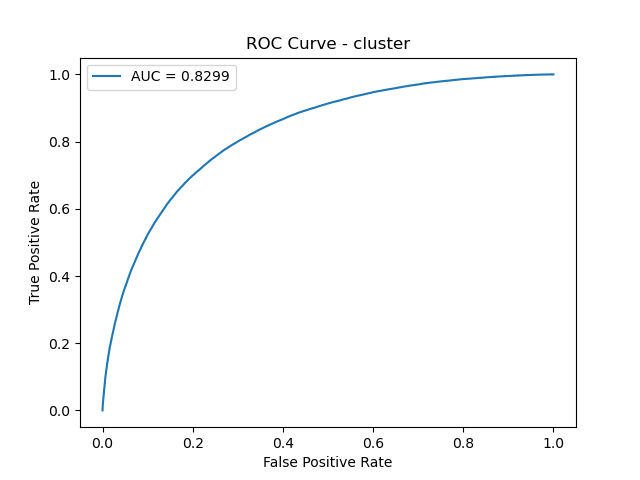
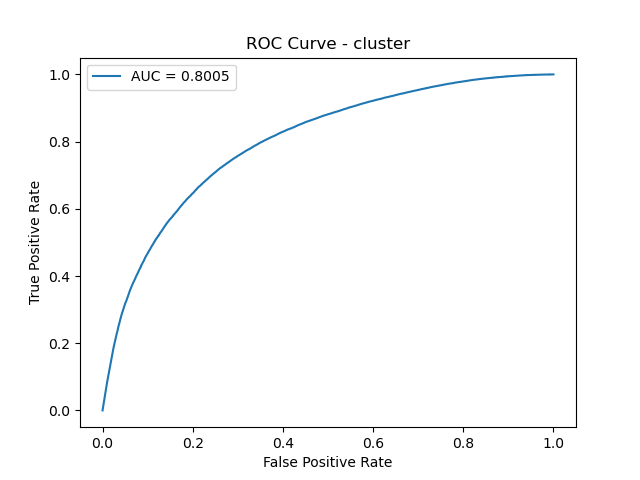
use 2 GPUs with new train-test split

Changed region(s): [[0.1562, 0.1562, 0.7812, 0.8438], [0.3125, 0.1562, 0.3438, 0.1875]]

diff --git a/train_no_aug.py b/train_no_aug.py
@@ -20,20 +20,30 @@ def parse_arguments():
     parser.add_argument('--output_dir', type=str, default='./models', help='Directory to save models')
     parser.add_argument('--classification_task', type=str, default='tumor', choices=['tumor', 'TIL'], help='Classification task')
     parser.add_argument('--testset', type=str, required=True, help='Test dataset name')
-    parser.add_argument('--crop_size', type=int, default=224, help='Crop size for images')
+    parser.add_argument('--crop_size', type=int, default=96, help='Crop size for images')
     parser.add_argument('--epochs', type=int, default=30, help='Number of epochs')
     parser.add_argument('--lr', type=float, default=1e-4, help='Learning rate')
     parser.add_argument('--seed', type=int, default=42, help='Random seed')
     parser.add_argument('--train_split', type=float, default=0.9, help='Train split ratio')
     parser.add_argument('--multitask', action='store_true', help='Enable multitask learning')
     parser.add_argument('--lambda_ortho', type=float, default=0.01, help='Weight for orthogonality loss')
+    parser.add_argument('--num_gpus', type=int, default=2, help='Number of GPUs to use')
     return parser.parse_args()
 
-def setup_device():
-    return torch.device("cuda" if torch.cuda.is_available() else "cpu")
+def setup_device(num_gpus):
+    if torch.cuda.is_available() and num_gpus > 0:
+        device = torch.device("cuda")
+        available_gpus = min(torch.cuda.device_count(), num_gpus)
+        print(f"Using {available_gpus} GPUs")
+        if available_gpus < num_gpus:
+            print(f"Warning: Requested {num_gpus} GPUs but only {available_gpus} are available")
+    else:
+        device = torch.device("cpu")
+        print("Using CPU")
+    return device
 
-def get_max_batch_size(model, device, input_shape):
-    batch_size = 32
+def get_max_batch_size(model, device, input_shape, num_gpus):
+    batch_size = 32 * max(1, num_gpus)  # Scale initial batch size with number of GPUs
     while True:
         try:
             x = torch.randn(batch_size, *input_shape).to(device)
@@ -50,7 +60,15 @@ def train_epoch(model, optimizer, pos_weights, dataloader, num_tasks, device, la
     for images, labels, clusters in dataloader:
         images, labels, clusters = images.to(device), labels.to(device), clusters.to(device)
         optimizer.zero_grad()
-        outputs, _ = model(images)
+        
+        # Handle output from DataParallel model (which wraps outputs in a list)
+        outputs_list, _ = model(images)
+        if isinstance(model, nn.DataParallel):
+            # Assuming model returns a tuple (outputs, _) and we want the first element
+            outputs = outputs_list
+        else:
+            outputs = outputs_list
+            
         task_loss = 0.0
         unique_clusters = torch.unique(clusters)
         if max(unique_clusters) >= num_tasks:
@@ -62,13 +80,19 @@ def train_epoch(model, optimizer, pos_weights, dataloader, num_tasks, device, la
             pos_weight = pos_weights[cluster]
             criterion = nn.BCEWithLogitsLoss(pos_weight=pos_weight)
             task_loss += criterion(cluster_outputs.view(-1), cluster_labels.float())
+        
+        # For orthogonality loss, we need to access the actual model weights
+        # If using DataParallel, access the module attribute
+        actual_model = model.module if isinstance(model, nn.DataParallel) else model
+        
         ortho_loss = 0.0
         for i in range(num_tasks):
             for j in range(i + 1, num_tasks):
-                w_i = model.heads[i][2].weight
-                w_j = model.heads[j][2].weight
+                w_i = actual_model.heads[i][2].weight
+                w_j = actual_model.heads[j][2].weight
                 cos_sim = nn.functional.cosine_similarity(w_i.flatten(), w_j.flatten(), dim=0)
                 ortho_loss += torch.abs(cos_sim)
+                
         total_loss = task_loss + lambda_ortho * ortho_loss
         total_loss.backward()
         optimizer.step()
@@ -82,7 +106,14 @@ def val_epoch(model, dataloader, device):
     with torch.no_grad():
         for images, labels, clusters in dataloader:
             images, labels, clusters = images.to(device), labels.to(device), clusters.to(device)
-            outputs, _ = model(images)
+            
+            # Handle output from DataParallel model
+            outputs_list, _ = model(images)
+            if isinstance(model, nn.DataParallel):
+                outputs = outputs_list
+            else:
+                outputs = outputs_list
+                
             selected_outputs = torch.stack([outputs[cluster][i] for i, cluster in enumerate(clusters)])
             loss = nn.BCEWithLogitsLoss()(selected_outputs.squeeze(), labels.float())
             val_loss += loss.item()
@@ -94,7 +125,7 @@ def val_epoch(model, dataloader, device):
 
 def main():
     args = parse_arguments()
-    device = setup_device()
+    device = setup_device(args.num_gpus)
     torch.manual_seed(args.seed)
     np.random.seed(args.seed)
     if torch.cuda.is_available():
@@ -107,6 +138,12 @@ def main():
 
     # Initialize Wandb
     wandb.init(project="pathology_multitask", name=exp_name)
+
+    # Log GPU information
+    if torch.cuda.is_available():
+        gpu_count = min(torch.cuda.device_count(), args.num_gpus)
+        gpu_names = [torch.cuda.get_device_name(i) for i in range(gpu_count)]
+        wandb.log({"gpu_count": gpu_count, "gpu_names": gpu_names})
 
     # Load and merge datasets
     df_dataset = pd.read_csv(args.dataset_path)
@@ -157,10 +194,19 @@ def main():
     train_dataset = MultiTaskDataset(train_df, args.classification_task, crop_size=args.crop_size)
     val_dataset = MultiTaskDataset(val_df, args.classification_task, crop_size=args.crop_size)
 
-    # Initialize model and determine batch size
+    # Initialize model
     model = UNIMultitask(num_tasks=num_tasks)
+    
+    # Wrap model with DataParallel if using multiple GPUs
+    if torch.cuda.is_available() and args.num_gpus > 1:
+        if torch.cuda.device_count() > 1:
+            print(f"Using {min(torch.cuda.device_count(), args.num_gpus)} GPUs with DataParallel")
+            model = nn.DataParallel(model, device_ids=list(range(min(torch.cuda.device_count(), args.num_gpus))))
+    
     model.to(device)
-    batch_size = get_max_batch_size(model, device, (3, args.crop_size, args.crop_size))
+    
+    # Determine batch size
+    batch_size = get_max_batch_size(model, device, (3, args.crop_size, args.crop_size), args.num_gpus)
     print(f"Using batch size: {batch_size}")
 
     # DataLoaders with dynamic num_workers
@@ -183,10 +229,13 @@ def main():
         if val_acc > best_val_acc:
             best_val_acc = val_acc
             model_filename = f"UNI_{args.classification_task}_{args.testset}_valacc{best_val_acc:.4f}_{timestamp}.pth"
-            torch.save(model.state_dict(), os.path.join(args.output_dir, model_filename))
+            # Save the model state dict (access .module if it's a DataParallel model to save the actual model)
+            torch.save(model.module.state_dict() if isinstance(model, nn.DataParallel) else model.state_dict(), 
+                       os.path.join(args.output_dir, model_filename))
             print(f"Saved best model: {model_filename}")
 
     wandb.finish()
 
 if __name__ == "__main__":
     main()
+    

diff --git a/datasets.py b/datasets.py
@@ -18,7 +18,7 @@ def get_path(dataset, img_name, datatype):
     return f"{path_dict[(dataset, datatype)]}/{img_name}.tif"
 
 class MultiTaskDataset(Dataset):
-    def __init__(self, df, task, datatype='original', crop_size=224):
+    def __init__(self, df, task, datatype='original', crop_size=224, is_training=True):
         self.datasets = df['dataset']
         self.img_paths = df['img_path']
         self.centerXs = df['centerX']
@@ -27,15 +27,25 @@ class MultiTaskDataset(Dataset):
         self.clusters = df['labelCluster']
         self.crop_size = crop_size
         self.datatype = datatype
+        self.is_training = is_training
 
-        self.transform = transforms.Compose([
-            transforms.RandomRotation(180),  # Added random rotation
-            transforms.RandomHorizontalFlip(0.5),
-            transforms.RandomVerticalFlip(0.5),
-            transforms.Pad(padding=int((224 - self.crop_size)/2)),
-            transforms.ToTensor(),
-            transforms.Normalize(mean=[0.485, 0.456, 0.406], std=[0.229, 0.224, 0.225])
-        ])
+        # Define augmentation transforms for training only
+        if self.is_training:
+            self.transform = transforms.Compose([
+                transforms.RandomRotation(180),
+                transforms.RandomHorizontalFlip(0.5),
+                transforms.RandomVerticalFlip(0.5),
+                transforms.Pad(padding=int((224 - self.crop_size)/2)),
+                transforms.ToTensor(),
+                transforms.Normalize(mean=[0.485, 0.456, 0.406], std=[0.229, 0.224, 0.225])
+            ])
+        else:
+            # Only normalization for testing
+            self.transform = transforms.Compose([
+                transforms.Pad(padding=int((224 - self.crop_size)/2)),
+                transforms.ToTensor(),
+                transforms.Normalize(mean=[0.485, 0.456, 0.406], std=[0.229, 0.224, 0.225])
+            ])
 
     def __len__(self):
         return len(self.labels)
@@ -59,7 +69,7 @@ class MultiTaskDataset(Dataset):
         return image, label, cluster
 
 class MultiTaskDatasetRandStainNA(Dataset):
-    def __init__(self, df, task, testset, cluster, datatype='original', crop_size=224):
+    def __init__(self, df, task, testset, cluster, datatype='original', crop_size=224, is_training=True):
         self.datasets = df['dataset']
         self.img_names = df['img_name']
         self.centerXs = df['centerX']
@@ -67,16 +77,31 @@ class MultiTaskDatasetRandStainNA(Dataset):
         self.labels = df['labelTumor'] if task == "tumor" else df['labelTIL']
         self.crop_size = crop_size
         self.datatype = datatype
+        self.is_training = is_training
+        
         cluster_text = f"_{cluster}" if cluster is not None else ""
-        self.transform = transforms.Compose([
-            RandStainNA(yaml_file=f'yaml_config/{task}_{testset}{cluster_text}.yaml', std_hyper=0, probability=1.0, distribution='normal'),
-            transforms.RandomRotation(180),  # Added random rotation
-            transforms.RandomHorizontalFlip(0.5),
-            transforms.RandomVerticalFlip(0.5),
+        
+        # Choose transforms based on whether this is training or testing
+        base_transforms = [
+            RandStainNA(yaml_file=f'yaml_config/{task}_{testset}{cluster_text}.yaml', std_hyper=0, probability=1.0, distribution='normal')
+        ]
+        
+        if self.is_training:
+            # Add augmentations for training
+            base_transforms.extend([
+                transforms.RandomRotation(180),
+                transforms.RandomHorizontalFlip(0.5),
+                transforms.RandomVerticalFlip(0.5),
+            ])
+        
+        # Common transforms for both training and testing
+        base_transforms.extend([
             transforms.Pad(padding=int((224 - self.crop_size)/2)),
             transforms.ToTensor(),
             transforms.Normalize(mean=[0.485, 0.456, 0.406], std=[0.229, 0.224, 0.225])
         ])
+        
+        self.transform = transforms.Compose(base_transforms)
 
     def __len__(self):
         return len(self.labels)
@@ -101,7 +126,7 @@ class MultiTaskDatasetRandStainNA(Dataset):
         return image, label, img_name
 
 class RandStainNADataset(Dataset):
-    def __init__(self, df, task, testset, saved_path, crop_size=224):
+    def __init__(self, df, task, testset, saved_path, crop_size=224, is_training=True):
         self.datasets = df['dataset']
         self.img_names = df['img_name']
         self.centerXs = df['centerX']
@@ -111,14 +136,27 @@ class RandStainNADataset(Dataset):
         self.task = task
         self.testset = testset
         self.saved_path = saved_path
-        self.transform = transforms.Compose([
-            transforms.RandomRotation(180),  # Added random rotation
-            transforms.RandomHorizontalFlip(0.5),
-            transforms.RandomVerticalFlip(0.5),
+        self.is_training = is_training
+        
+        # Choose transforms based on whether this is training or testing
+        transforms_list = []
+        
+        if self.is_training:
+            # Add augmentations for training
+            transforms_list.extend([
+                transforms.RandomRotation(180),
+                transforms.RandomHorizontalFlip(0.5),
+                transforms.RandomVerticalFlip(0.5),
+            ])
+        
+        # Common transforms for both training and testing
+        transforms_list.extend([
             transforms.Pad(padding=int((224 - self.crop_size)/2)),
             transforms.ToTensor(),
             transforms.Normalize(mean=[0.485, 0.456, 0.406], std=[0.229, 0.224, 0.225])
         ])
+        
+        self.transform = transforms.Compose(transforms_list)
 
     def __len__(self):
         return len(self.labels)

diff --git a/test_no_aug.py b/test_no_aug.py
@@ -21,15 +21,22 @@ def parse_arguments():
     parser.add_argument('--plots_dir', type=str, default='./plots', help='Directory to save plots')
     parser.add_argument('--classification_task', type=str, default='tumor', choices=['tumor', 'TIL'], help='Classification task')
     parser.add_argument('--testset', type=str, required=True, help='Test dataset name')
-    parser.add_argument('--crop_size', type=int, default=224, help='Crop size for images')
+    parser.add_argument('--crop_size', type=int, default=96, help='Crop size for images')
     parser.add_argument('--seed', type=int, default=42, help='Random seed')
     parser.add_argument('--multitask', action='store_true', help='Enable multitask learning')
     parser.add_argument('--inference_methods', type=str, nargs='+', default=['cluster'], 
                         help='List of inference methods: cluster, weighted_voting, weighted_sum')
+    parser.add_argument('--num_gpus', type=int, default=2, help='Number of GPUs to use')
     return parser.parse_args()
 
-def setup_device():
-    return torch.device("cuda" if torch.cuda.is_available() else "cpu")
+def setup_device(num_gpus=2):
+    if torch.cuda.is_available() and torch.cuda.device_count() >= num_gpus:
+        # Explicitly set up to use the first two GPUs
+        gpu_ids = list(range(num_gpus))
+        return torch.device(f"cuda:{gpu_ids[0]}"), gpu_ids
+    else:
+        print(f"Warning: Requested {num_gpus} GPUs but only {torch.cuda.device_count()} available. Using CPU or single GPU.")
+        return torch.device("cuda" if torch.cuda.is_available() else "cpu"), []
 
 def find_best_model(models_dir, pattern):
     pattern = re.compile(pattern + r"_valacc(\d+\.\d+)_\d{8}_\d{6}\.pth")
@@ -84,7 +91,7 @@ def main():
         if method not in ALLOWED_METHODS:
             raise ValueError(f"Invalid inference method: {method}. Allowed methods are {ALLOWED_METHODS}")
     
-    device = setup_device()
+    device, gpu_ids = setup_device(args.num_gpus)
     torch.manual_seed(args.seed)
     np.random.seed(args.seed)
     if torch.cuda.is_available():
@@ -126,16 +133,18 @@ def main():
     if max(unique_test_clusters) >= num_tasks:
         raise ValueError(f"Test data contains cluster indices {unique_test_clusters} that exceed num_tasks {num_tasks}")
 
-    dataset = MultiTaskDataset(df_test, args.classification_task, crop_size=args.crop_size)
+    dataset = MultiTaskDataset(df_test, args.classification_task, crop_size=args.crop_size, is_training=False)
     dataloader = DataLoader(dataset, batch_size=64, shuffle=False, num_workers=min(8, os.cpu_count()), pin_memory=True)
 
     # Load best model
     model = UNIMultitask(num_tasks=num_tasks)
     best_model_path = find_best_model(args.models_dir, exp_name)
     model.load_state_dict(torch.load(best_model_path, map_location=device))
-    if torch.cuda.device_count() > 1:
-        print(f"Using {torch.cuda.device_count()} GPUs!")
-        model = nn.DataParallel(model)
+    
+    # Explicitly wrap model with DataParallel using the specific GPU IDs
+    if len(gpu_ids) > 1:
+        print(f"Using {len(gpu_ids)} GPUs: {gpu_ids}")
+        model = nn.DataParallel(model, device_ids=gpu_ids)
     model.to(device)
 
     # Test each inference method
